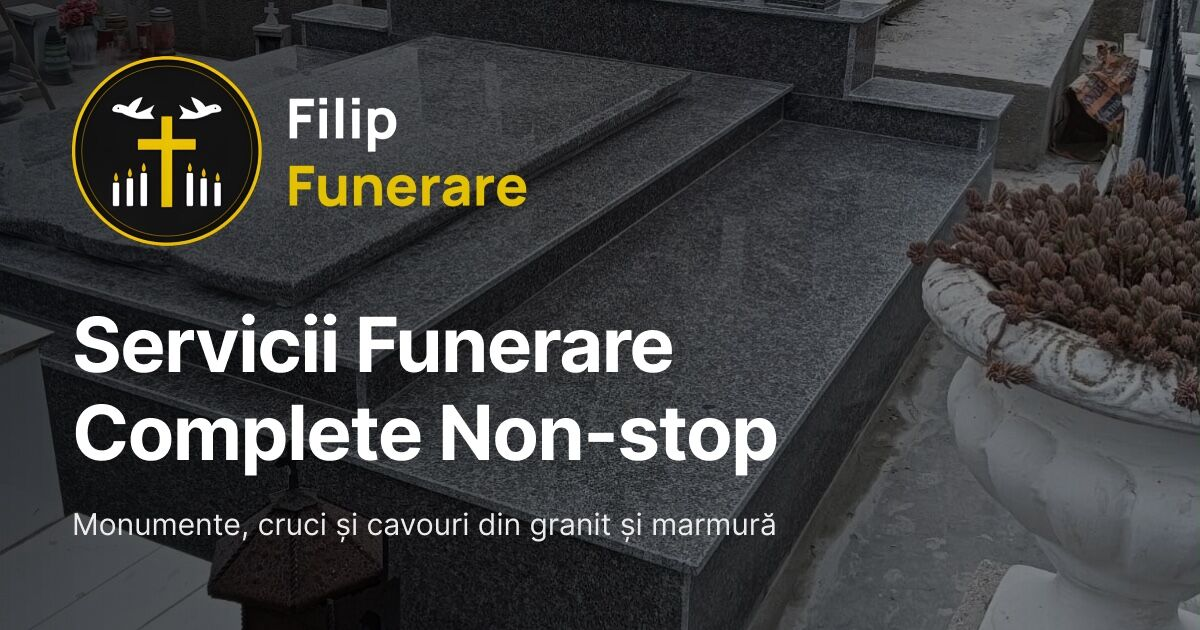
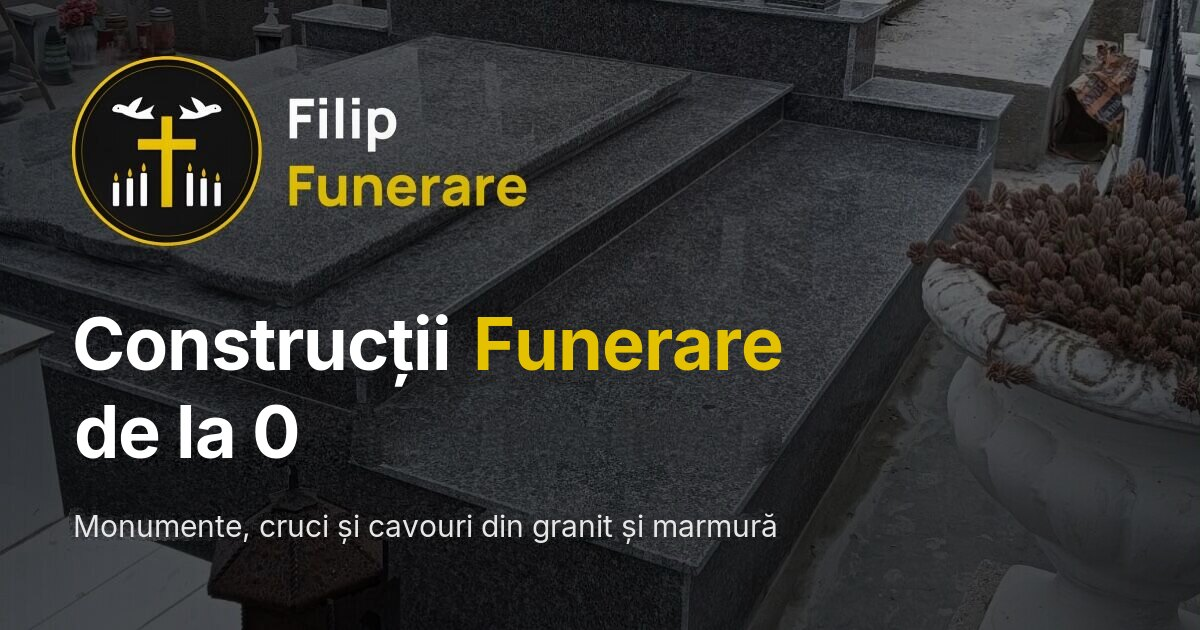
seo-title

Changed region(s): [[0.0617, 0.4825, 0.7092, 0.9048], [0.6475, 0.4222, 1.0, 1.0], [0.9867, 0.5127, 1.0, 0.5429]]

diff --git a/app/api/login/route.js b/app/api/login/route.js
@@ -1,4 +1,5 @@
 import { createClient } from "../../../lib/supabase/supabaseServer";
+import { VerificaRateLimit } from "../../../lib/upstash/rateLimit";
 
 const REGEX_EMAIL = /^[^\s@]+@[^\s@]+\.[^\s@]+$/;
 const LUNGIME_MINIMA_PAROLA = 6;
@@ -26,6 +27,21 @@ export async function POST(request){
         );
     }
 
+    const ip =
+        request.headers.get("x-forwarded-for")?.split(",")[0].trim() ||
+        request.headers.get("x-real-ip") ||
+        "necunoscut";
+
+    const permis = await VerificaRateLimit(`login:${ip}`);
+
+    if(!permis){
+        console.warn("Prea multe cereri. Incearca din nou peste putin timp!");
+        return Response.json(
+            { ok: false, error: "Prea multe cereri. Incearca din nou peste putin timp!" },
+            { status: 429 }
+        );
+    }
+
     try{
         const supabase = await createClient();
 
@@ -33,6 +49,7 @@ export async function POST(request){
             .signInWithPassword({ email, password: parola });
 
         if(eroareAuth || !dateAuth?.user){
+            console.error("eroareAuth: ",eroareAuth?.message)
             return Response.json(
                 { ok: false, error: EROARE_CREDENTIALE },
                 { status: 401 }

diff --git a/app/(site)/page.tsx b/app/(site)/page.tsx
@@ -1,6 +1,6 @@
 import { Suspense } from 'react';
 import type { Metadata } from 'next';
-import { numeSite, imagineOpenGraph } from './data/seo';
+import { numeSite, descriereImplicita, imagineOpenGraph } from './data/seo';
 import HeroSection from './Hero/heroSection';
 import AnunturiSection from './Anunturi/anunturiSection';
 import BodyServiciiSection from './BodyServicii/bodyServiciiSection';
@@ -11,9 +11,8 @@ import GalerieSection from './Galerie/galerieSection';
 import CtaSection from './Cta/ctaSection';
 import FooterSection from './Footer/footerSection';
 
-const titlu = `Servicii Funerare Complete Non-stop | ${numeSite}`;
-const descriere =
-  'Servicii funerare complete, disponibile non-stop, și monumente funerare din granit și marmură. Sicrie, transport, acte de deces, cavouri și cruci. Sunați oricând.';
+const titlu = `Construcții Funerare și Cavouri București | ${numeSite}`;
+const descriere = descriereImplicita;
 
 export const metadata: Metadata = {
   title: { absolute: titlu },

diff --git a/app/(site)/layout.tsx b/app/(site)/layout.tsx
@@ -13,7 +13,7 @@ const manrope = Manrope({
 export const metadata: Metadata = {
   metadataBase: new URL(siteUrl),
   title: {
-    default: `Servicii Funerare Complete Non-stop | ${numeSite}`,
+    default: `Construcții Funerare și Cavouri București | ${numeSite}`,
     template: `%s | ${numeSite}`,
   },
   description: descriereImplicita,
@@ -25,13 +25,13 @@ export const metadata: Metadata = {
     locale,
     siteName: numeSite,
     url: "/",
-    title: `Servicii Funerare Complete Non-stop | ${numeSite}`,
+    title: `Construcții Funerare și Cavouri București | ${numeSite}`,
     description: descriereImplicita,
     ...imagineOpenGraph,
   },
   twitter: {
     card: "summary_large_image",
-    title: `Servicii Funerare Complete Non-stop | ${numeSite}`,
+    title: `Construcții Funerare și Cavouri București | ${numeSite}`,
     description: descriereImplicita,
     images: ["/opengraph-image.jpg"],
   },

diff --git a/app/(site)/data/seo.js b/app/(site)/data/seo.js
@@ -5,7 +5,7 @@ export const numeSite = "Filip Funerare";
 export const locale = "ro_RO";
 
 export const descriereImplicita =
-    "Servicii funerare complete, disponibile non-stop, și monumente funerare din granit și marmură. Sicrie, transport, acte de deces, cavouri și cruci.";
+    "Construcții funerare în București și Ilfov: cavouri, cripte, monumente și cruci din granit și marmură. Oferim și servicii funerare complete non-stop.";
 
 export const imagineOpenGraph = {
     images: [
@@ -14,7 +14,7 @@ export const imagineOpenGraph = {
             type: "image/jpeg",
             width: 1200,
             height: 630,
-            alt: `${numeSite} — servicii funerare complete non-stop și monumente funerare din granit și marmură`,
+            alt: `${numeSite} — construcții funerare de la 0, monumente, cruci și cavouri din granit și marmură`,
         },
     ],
 };

diff --git a/app/sitemap.js b/app/sitemap.js
@@ -7,13 +7,12 @@ export default async function sitemap(){
 
     const statice = [
         { url: `${siteUrl}`, lastModified: acum, changeFrequency: "monthly", priority: 1 },
-        { url: `${siteUrl}/servicii-funerare`, lastModified: acum, changeFrequency: "monthly", priority: 0.9 },
         { url: `${siteUrl}/constructii-funerare`, lastModified: acum, changeFrequency: "monthly", priority: 0.9 },
         { url: `${siteUrl}/magazin`, lastModified: acum, changeFrequency: "weekly", priority: 0.8 },
         { url: `${siteUrl}/confidentialitate`, lastModified: acum, changeFrequency: "yearly", priority: 0.2 },
     ];
 
-    const categorii = (await CategoriiCached()) || [];
+    const categorii = (await CategoriiCached().catch(() => [])) || [];
     const produse = (await ToateProduseleCached()) || [];
 
     const caleCategorii = categorii.map((categorie) => ({

diff --git a/app/(site)/constructii-funerare/page.jsx b/app/(site)/constructii-funerare/page.jsx
@@ -9,9 +9,9 @@ import RevealLaScroll from "../RevealLaScroll/revealLaScroll";
 import ScrollExpand from "../ScrollExpand/scrollExpand";
 import styles from './constructiiFunerarePagina.module.css';
 
-const titlu = "Construcții Funerare: Cavouri și Cripte";
+const titlu = "Cavouri și Cripte din Granit în București";
 const descriere =
-    "Construim cavouri, cripte, borduri și placări din granit și marmură, cu echipă proprie de montaj. Măsurători în cimitir și ofertă fără costuri ascunse.";
+    "Construim cavouri, cripte și borduri din granit și marmură în București și Ilfov, cu echipă proprie de montaj. Măsurători în cimitir, fără costuri ascunse.";
 
 export const metadata = {
     title: titlu,

diff --git a/app/(site)/magazin/page.jsx b/app/(site)/magazin/page.jsx
@@ -10,9 +10,9 @@ import { Suspense } from "react";
 import SkeletonCategorii from "../Skeletons/skeletonCategorii";
 import { imagineOpenGraph } from "../data/seo";
 
-const titlu = "Magazin Monumente și Cruci Funerare";
+const titlu = "Monumente și Cruci Funerare București";
 const descriere =
-    "Monumente funerare, cruci, borduri, placări și accesorii din granit și marmură, grupate pe categorii. Prețuri afișate, livrare și montaj cu echipa noastră.";
+    "Monumente funerare, cruci, borduri și accesorii din granit și marmură, cu prețuri afișate. Livrare și montaj în cimitirele din București și Ilfov.";
 
 export const metadata = {
     title: titlu,

diff --git a/app/(site)/Hero/heroSection.jsx b/app/(site)/Hero/heroSection.jsx
@@ -27,7 +27,7 @@ export default function HeroSection(){
                         priority={index === 0}
                     />
                 ))}
-            </div>  Funerare de la 0
+            </div>
             <div className={styles.contentHero}>
                 <h1>Construcții <span className={styles.colorText}>Funerare</span> <br className={styles.titleBreak}/> <span className={styles.underlineText}>de la 0</span></h1>
                 <p>

diff --git a/cache/categoriiCahed.js b/cache/categoriiCahed.js
@@ -13,10 +13,11 @@ export async function CategoriiCached(){
             .select("id,slug,titlu,poster")
             .order("created_at",{ascending:false});
         if(error){
-            throw new Error(error)
+            throw new Error(error.message)
         }
         return data;
     }catch(err){
         console.error("[ERROR] CategoriiCached: ",err);
+        throw err;
     }
 }
